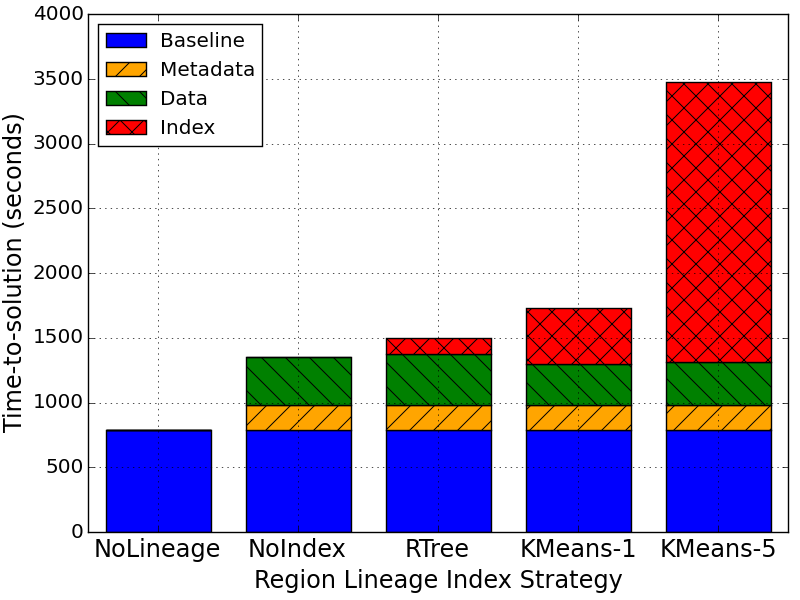
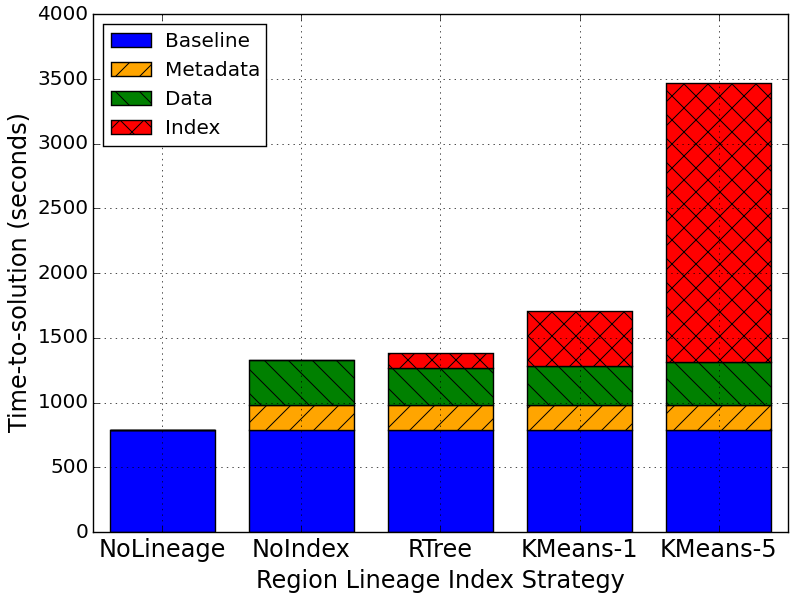
update figures

diff --git a/pictures/SIFTQuery-Time.py b/pictures/SIFTQuery-Time.py
@@ -17,25 +17,49 @@ Batch10KSDV = (6194.96, 564.33, 312.15, 300.34)
 
 
 ind = 0.1+np.arange(N)  # the x locations for the groups
-width = 0.2       # the width of the bars
+width = 0.3       # the width of the bars
 
-ax = plt.subplot()
-ax.set_ylim([1, 100000])
-ax.set_yscale("log", nonposx='clip')
-rects1 = ax.bar(ind, Random, width, color='blue', log='True', yerr=np.multiply(RandomSDV,3), ecolor='black')
-rects2 = ax.bar(ind+width, Batch100, width, color='orange', hatch="/", log='True', yerr=np.multiply(Batch100SDV,3), ecolor='black')
-rects3 = ax.bar(ind+2*width, Batch1K, width, color='red', hatch="x", log='True', yerr=np.multiply(Batch1KSDV,3), ecolor='black')
-rects4 = ax.bar(ind+3*width, Batch10K, width, color='green', hatch="\\", log='True', yerr=np.multiply(Batch10KSDV,3), ecolor='black')
+f, (ax, ax2) = plt.subplots(2, 1, sharex=True)
+ax.set_ylim([1000, 11000])
+ax2.set_ylim([0, 500])
 
+ax.spines['bottom'].set_visible(False)
+ax2.spines['top'].set_visible(False)
+ax.xaxis.tick_top()
+ax.tick_params(labeltop='off')
+ax2.xaxis.tick_bottom()
+
+rects1 = ax.bar(ind, Random, width, color='blue')
+rects2 = ax.bar(ind+width, Batch100, width, color='orange', hatch="/")
+rects3 = ax.bar(ind+2*width, Batch1K, width, color='red', hatch="x")
+#rects4 = ax.bar(ind+3*width, Batch10K, width, color='green', hatch="\\")
+ax2.bar(ind, Random, width, color='blue')
+ax2.bar(ind+width, Batch100, width, color='orange', hatch="/")
+ax2.bar(ind+2*width, Batch1K, width, color='red', hatch="x")
+#ax2.bar(ind+3*width, Batch10K, width, color='green', hatch="\\")
 ax.grid(True)
+ax2.grid(True)
 
+ax.set_yticklabels((1000, 6000, 11000), size='large')
+ax2.set_yticklabels((0, 100, 200, 300, 400, 500), size='large')
+
+args = dict(horizontalalignment='left', verticalalignment='bottom')
 # add some text for labels, title and axes ticks
-ax.set_xlabel('Region Lineage Index Strategy', size='x-large')
-ax.set_ylabel('Query Turnaround (miliseconds)', size='x-large')
-ax.set_xticks(ind+0.4)
-ax.set_xticklabels( ('NoIndex', 'RTree', 'KMeans-1', 'KMeans-5'), size='x-large') 
-plt.yticks(size='large')
-ax.legend( (rects1[0], rects2[0], rects3[0], rects4[0]), ('Random', 'Batch100', 'Batch1000', 'Batch10000'), loc='best')
+ax2.set_xlabel('Region Lineage Index Strategy', size='x-large')
+ax2.set_ylabel('Query Turnaround (ms)', size='x-large', labelpad=20, **args)
+ax.set_xticks(ind+0.45)
+ax2.set_xticklabels( ('NoIndex', 'RTree', 'KMeans-1', 'KMeans-5'), size='x-large') 
+ax.legend( (rects1[0], rects2[0], rects3[0]), ('Random', 'Batch100', 'Batch1000'), loc='best')
+ax.yaxis.set_ticks((1000, 6000, 11000))
+
+d = .015
+kwargs = dict(transform=ax.transAxes, color='k', clip_on=False)
+ax.plot((-d,+d),(-d,+d), **kwargs)      # top-left diagonal
+ax.plot((1-d,1+d),(-d,+d), **kwargs)    # top-right diagonal
+
+kwargs.update(transform=ax2.transAxes)  # switch to the bottom axes
+ax2.plot((-d,+d),(1-d,1+d), **kwargs)   # bottom-left diagonal
+ax2.plot((1-d,1+d),(1-d,1+d), **kwargs) # bottom-right diagonal
 
 plt.show()
 

diff --git a/Lineage.tex b/Lineage.tex
@@ -770,6 +770,8 @@ Measurements
 \end{center}
 \end{figure}
 
+\subsection{End-to-end Pipeline Performance}
+
 \begin{table}[ht]
 \begin{center}
     \caption{Overhead Profile of Gineala on the VOCSIFTFisher, SourceExtractor, and MNIST Pipelines}
@@ -788,8 +790,6 @@ Measurements
 \end{center}   
 \end{table}
 
-\subsection{Replay}
-Replay
 
 \subsection{Use Case}
 Query

diff --git a/pictures/SIFTIndex-Time.py b/pictures/SIFTIndex-Time.py
@@ -6,7 +6,7 @@ import matplotlib.pyplot as plt
 N = 5
 Baseline = (792.02, 792.02, 792.02, 792.02, 792.02)
 Metadata = (0, 191.98, 191.98, 191.98, 191.98)
-Data = (0,367.49, 394.9, 317.22, 333.74)
+Data = (0,345.57, 283.62, 296.05, 326.8)
 Index = (0, 0, 117.41, 428.07, 2158.33)
 
 
